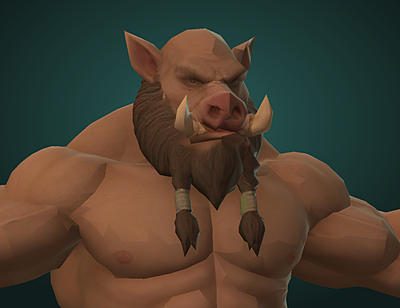
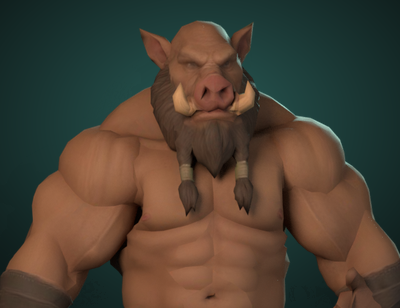
Re-render 6 hero portraits in idle pose (no T-pose, matched lighting)
Claude-Session: https://claude.ai/code/session_01M7eBmsdbX5dujjbvcNASSn

diff --git a/Docs/LICENSES.md b/Docs/LICENSES.md
@@ -77,7 +77,7 @@ Copied byte-identical from Rickard's old project `Speltest/Assets/ABC2/Resources
 | Files | What | Origin | Made by | Rights / proof | Credit |
 |---|---|---|---|---|---|
 | `home_bg.jpg` (was `home_bg_soft.jpg`) | Home background painting | Old game Home | Rickard ("bilden är min egen", 2026-10-25) | Rickard's own | None |
-| `portrait_<hero>.png` (8) | Hero portraits on the Heroes cards and the Home top bar | Old game `profile_<hero>.png`; Tyra and Bonk rendered by us in Blender from the models the game uses (2026-10-26) | Renders of Rickard's own hero models | Rickard's own (he confirmed 2026-10-25 15:07) | None |
+| `portrait_<hero>.png` (8) | Hero portraits on the Heroes cards and the Home top bar | Old game `profile_<hero>.png` (Fenn, Knut); Bram, Tyra, Moa, Tikta, Blast and Bonk rendered by us in Blender from the models the game uses, in their idle pose (2026-10-28, bam-work/art/portraits-2026-10-28) | Renders of Rickard's own hero models | Rickard's own (he confirmed 2026-10-25 15:07) | None |
 | `menu_btn_orange.png` | The orange PLAY button face on Home | Old game `AbcUI/menu_btn_orange.png` (PlayButton) | Rickard's own UI art from the old project | Rickard's own | None |
 | `special_<hero>.png`, `passive_<hero>.png` (14) | Ability icons on the Heroes page | Old game `ui_abilities_<hero>_*.png` | Rickard / the old project | Rickard's own (he confirmed 2026-10-25 15:14) | None |
 
